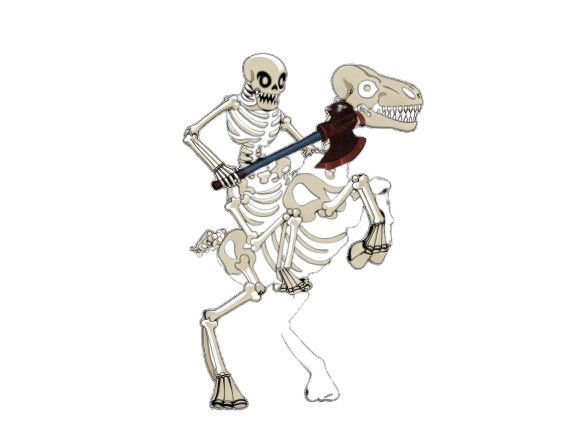
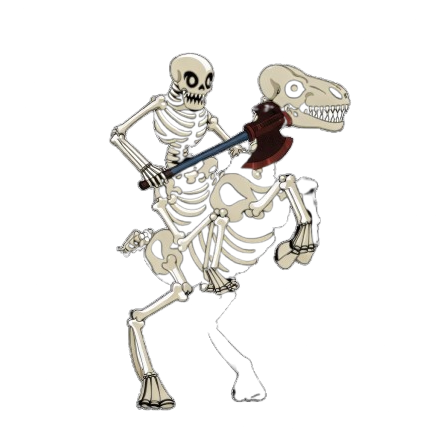
images sizing improved

Changed region(s): [[0.238, 0.119, 0.8032, 0.9519]]

diff --git a/client/src/styles.css b/client/src/styles.css
@@ -724,11 +724,50 @@ h1 {
 
 .capture-pieces { display: flex; flex-wrap: wrap; gap: 0.05rem 0.2rem; min-height: 1.35rem; }
 .captured-piece { color: var(--parchment); font-family: Georgia, serif; font-size: 1.35rem; line-height: 1; }
-.piece-image { display: block; height: 1em; object-fit: contain; pointer-events: none; user-select: none; width: 1em; }
-.piece > .piece-image { height: 1.1em; width: 1.1em; }
-.promotion-piece { color: var(--ink); font-family: Georgia, serif; font-size: clamp(1.4rem, 3vw, 2.2rem); line-height: 1; }
-.capture-empty { color: var(--ink-faint); font-family: 'IM Fell English SC', serif; font-size: 0.72rem; letter-spacing: 0.06em; }
+.piece-image {
+  display: block;
+  height: 100%;
+  width: 100%;
+  object-fit: contain;
+  pointer-events: none;
+  user-select: none;
+}
 
+.piece-image.piece-p {
+  height: 80%;
+  width: 80%;
+}
+
+.piece {
+  align-items: center;
+  color: #1a1208;
+  cursor: grab;
+  display: flex;
+  font-family: Georgia, serif;
+  height: 110%;
+  justify-content: center;
+  line-height: 1;
+  touch-action: none;
+  user-select: none;
+  width: 110%;
+}
+
+/* Unicode fallback when skins are unavailable */
+.piece > span {
+  font-size: clamp(2rem, 6vw, 4rem);
+  line-height: 1;
+}
+
+.piece:active,
+.piece.is-dragging {
+  cursor: grabbing;
+  opacity: 0.55;
+}
+
+.piece:focus-visible {
+  outline: 3px solid var(--brass-bright);
+  outline-offset: 4px;
+}
 /* ---------- Clocks ---------- */
 
 .clock-panel { display: flex; flex-direction: column; gap: 0.55rem; }
@@ -905,19 +944,17 @@ h1 {
   color: #1a1208;
   cursor: grab;
   font-family: Georgia, serif;
-  font-size: clamp(2.3rem, 8vw, 5.5rem);
+  display: flex;
+  height: 105%;
+  width: 105%;
+  justify-content: center;
   line-height: 1;
   touch-action: none;
   user-select: none;
 }
 
 .dragged-piece {
-  position: fixed;
-  pointer-events: none;
-  z-index: 100;
-  transform: translate(-50%, -50%);
-  left: 0;
-  top: 0;
+  align-items: center;
   background: radial-gradient(
     circle,
     rgba(201, 162, 74, 0.75) 0%,
@@ -925,6 +962,27 @@ h1 {
     rgba(201, 162, 74, 0.1) 50%,
     rgba(201, 162, 74, 0) 80%
   );
+  display: flex;
+  height: var(--drag-size, 4rem);
+  justify-content: center;
+  left: 0;
+  pointer-events: none;
+  position: fixed;
+  top: 0;
+  transform: translate(-50%, -50%);
+  width: var(--drag-size, 4rem);
+  z-index: 100;
+}
+
+.dragged-piece .piece-image {
+  height: 100%;
+  width: 100%;
+  object-fit: contain;
+}
+
+.dragged-piece.piece-p .piece-image {
+  height: 80%;
+  width: 80%;
 }
 
 .piece:active, .piece.is-dragging { cursor: grabbing; opacity: 0.55; }

diff --git a/client/src/components/PieceVisual.jsx b/client/src/components/PieceVisual.jsx
@@ -17,9 +17,11 @@ const pieceNames = {
 export default function PieceVisual({ color, type, skinFolder, className = '' }) {
   const [failedImagePath, setFailedImagePath] = useState(null);
 
+  const typeClass = `piece-${type}`;
+
   if (!skinFolder) {
     return (
-      <span className={className}>
+      <span className={`${typeClass} ${className}`}>
         {pieceSymbols[color][type]}
       </span>
     );
@@ -30,14 +32,14 @@ export default function PieceVisual({ color, type, skinFolder, className = '' })
 
   return hasImage ? (
     <img
-      className={`piece-image ${className}`}
+      className={`piece-image ${typeClass} ${className}`}
       src={imagePath}
       alt=""
       draggable="false"
       onError={() => setFailedImagePath(imagePath)}
     />
   ) : (
-    <span className={className}>
+    <span className={`${typeClass} ${className}`}>
       {pieceSymbols[color][type]}
     </span>
   );

diff --git a/client/src/App.jsx b/client/src/App.jsx
@@ -125,12 +125,9 @@ function App() {
   const [rightRailView, setRightRailView] = useState('bot');
 
   const [skinFolders, setSkinFolders] = useState([]);
-  const [selectedSkinFolder, setSelectedSkinFolder] =
-    useState('alteon');
-  const [selectedOpponentSkinFolder, setSelectedOpponentSkinFolder] =
-    useState('evil');
-  const [selectingOpponentSkin, setSelectingOpponentSkin] =
-    useState(false);
+  const [selectedSkinFolder, setSelectedSkinFolder] = useState('firefuckers');
+  const [selectedOpponentSkinFolder, setSelectedOpponentSkinFolder] = useState('evil');
+  const [selectingOpponentSkin, setSelectingOpponentSkin] = useState(false);
 
   const [clockSnapshot, setClockSnapshot] = useState(null);
   const [clockNow, setClockNow] = useState(() => Date.now());

diff --git a/README.md b/README.md
@@ -29,3 +29,7 @@ Send a move as JSON:
 The local practice bot bundles Stockfish.js 10.0.2 under GPL-3.0. Its upstream
 source is https://github.com/niklasf/stockfish.js, and its license is included
 at `client/bot-engine/LICENSE.txt`.
+
+
+## Images
+When adding a new skin, images should be square (n x n) and the edges of the png-image should be relatively close to the image depiction(actual content).
